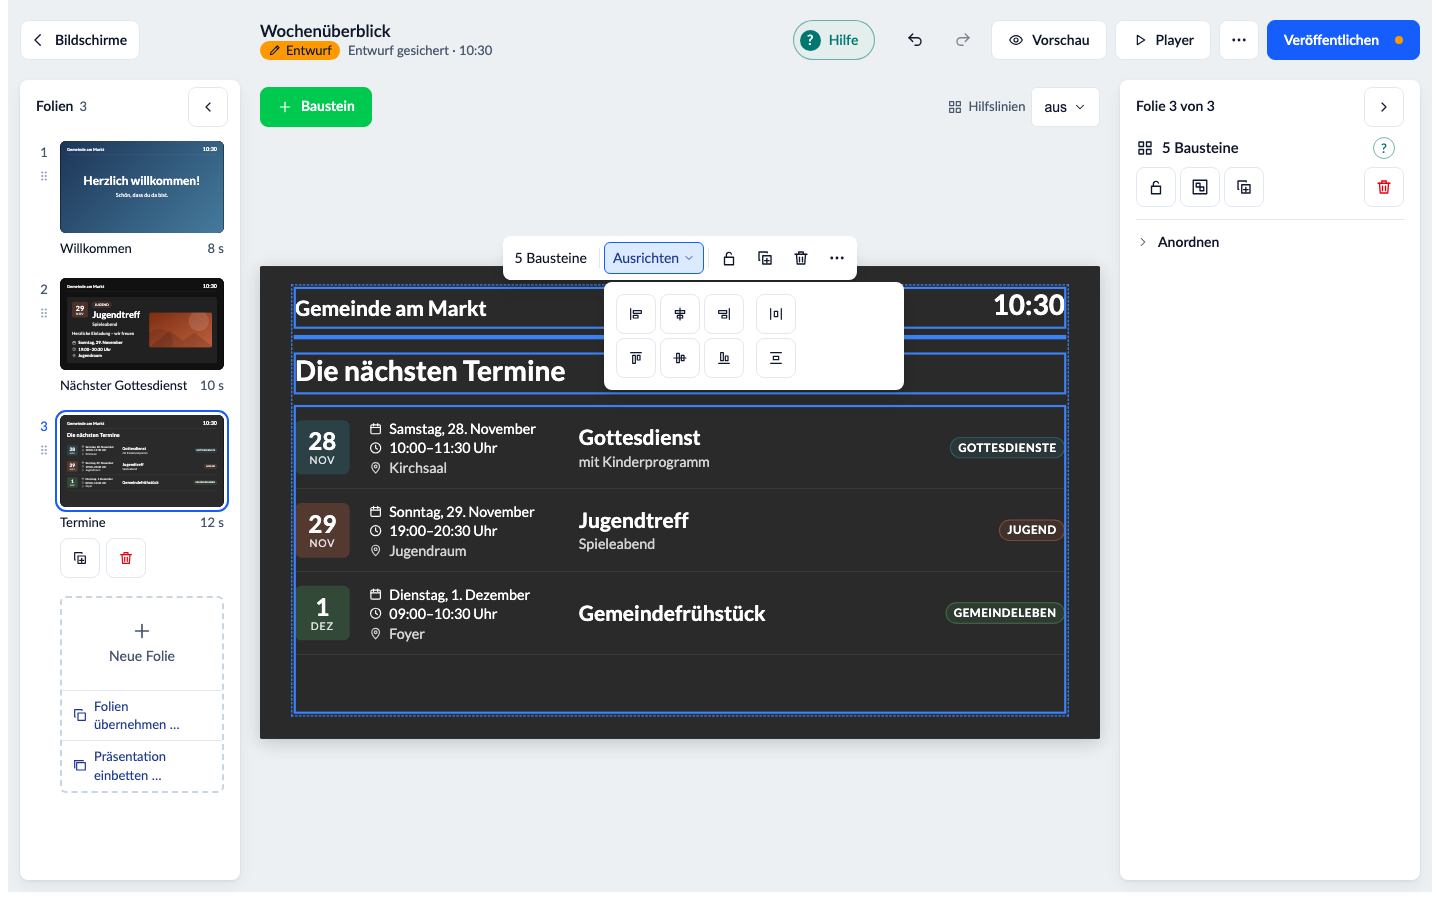
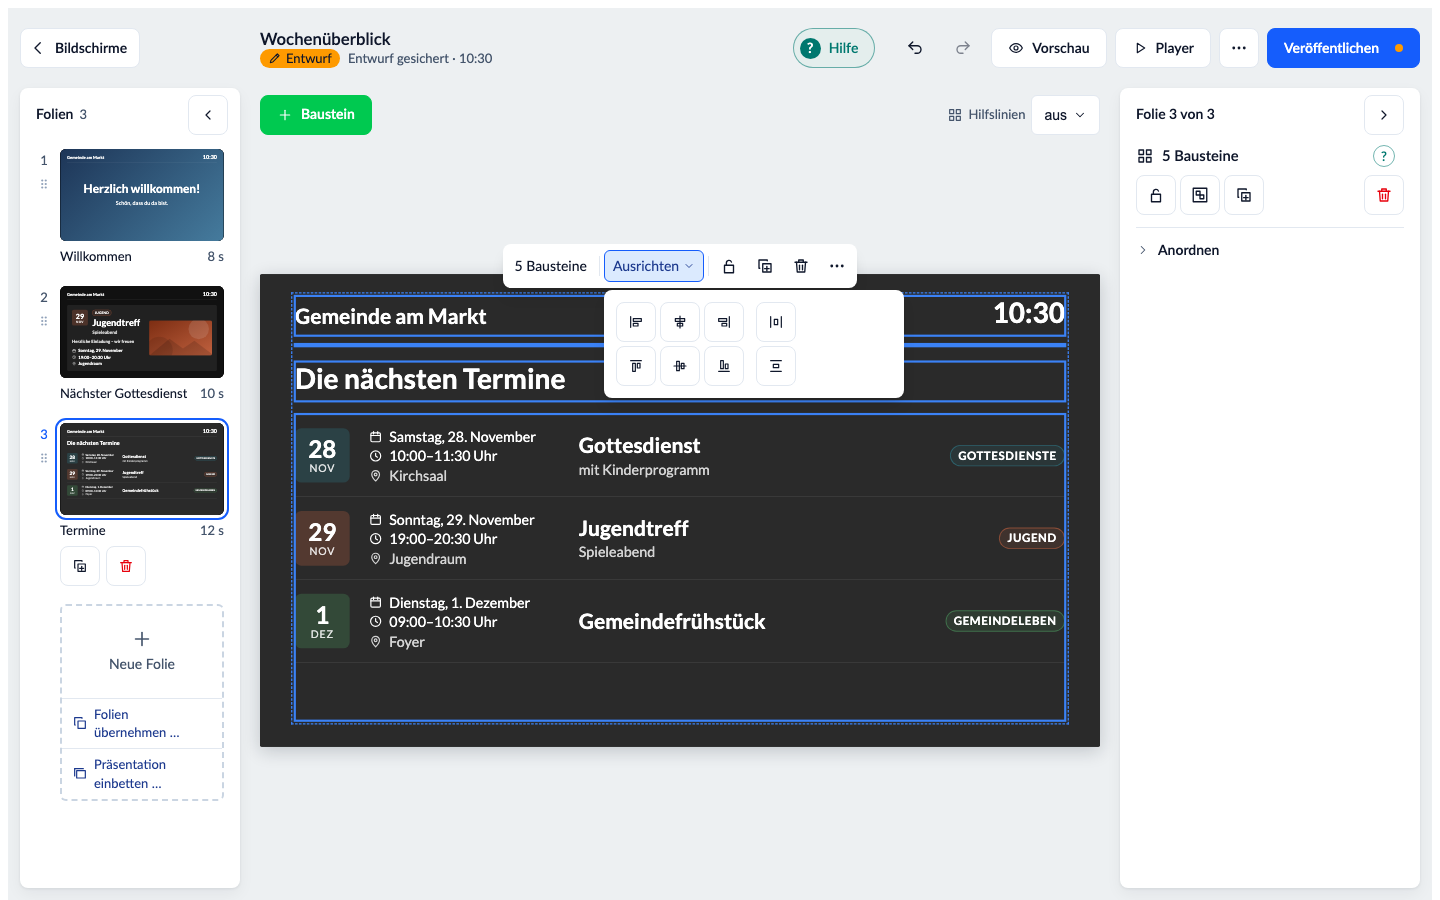
Doku-Bild editor.png: ohne Auswahl, damit der Inspektor seine farbigen Ebenen zeigt

diff --git a/e2e/docs-screenshots.spec.ts b/e2e/docs-screenshots.spec.ts
@@ -426,9 +426,11 @@ test('pictures for the documentation', async ({ page, baseURL }) => {
     await expect(page.locator('.editor-stage').getByTestId('list-place').first()).toContainText('Kirchsaal');
     await expect(page.getByTestId('quick-menu')).toBeVisible(); // the short menu over the list (Plan.md 79, C1)
     await expect(page.getByTestId('save-status')).toContainText('Entwurf gesichert', { timeout: 15_000 });
-    // The inspector from its top: the levels of the block with their tinted areas (Plan.md 133) stand in the picture of the README.
-    await page.locator('aside.inspector').evaluate((el) => el.querySelectorAll('*').forEach((n) => n.scrollTop > 0 && (n.scrollTop = 0)));
-    await page.locator('aside.inspector').evaluate((el) => (el.scrollTop = 0));
+    // Nothing chosen for the picture of the README: the inspector shows its levels on their tinted areas (Plan.md 133) –
+    // „Auf der Folie“ with the blocks, „Diese Folie“ and „Ganze Präsentation“ below (user, 2026-11-27).
+    await page.keyboard.press('Escape');
+    await page.getByTestId('grid').click({ position: { x: 5, y: 5 } });
+    await expect(page.getByTestId('level-on-slide')).toBeVisible();
     await shoot(page, 'editor');
 
     // Every block of the slide, with the field "Ausrichten" of the short menu open (Plan.md 79, D4).
